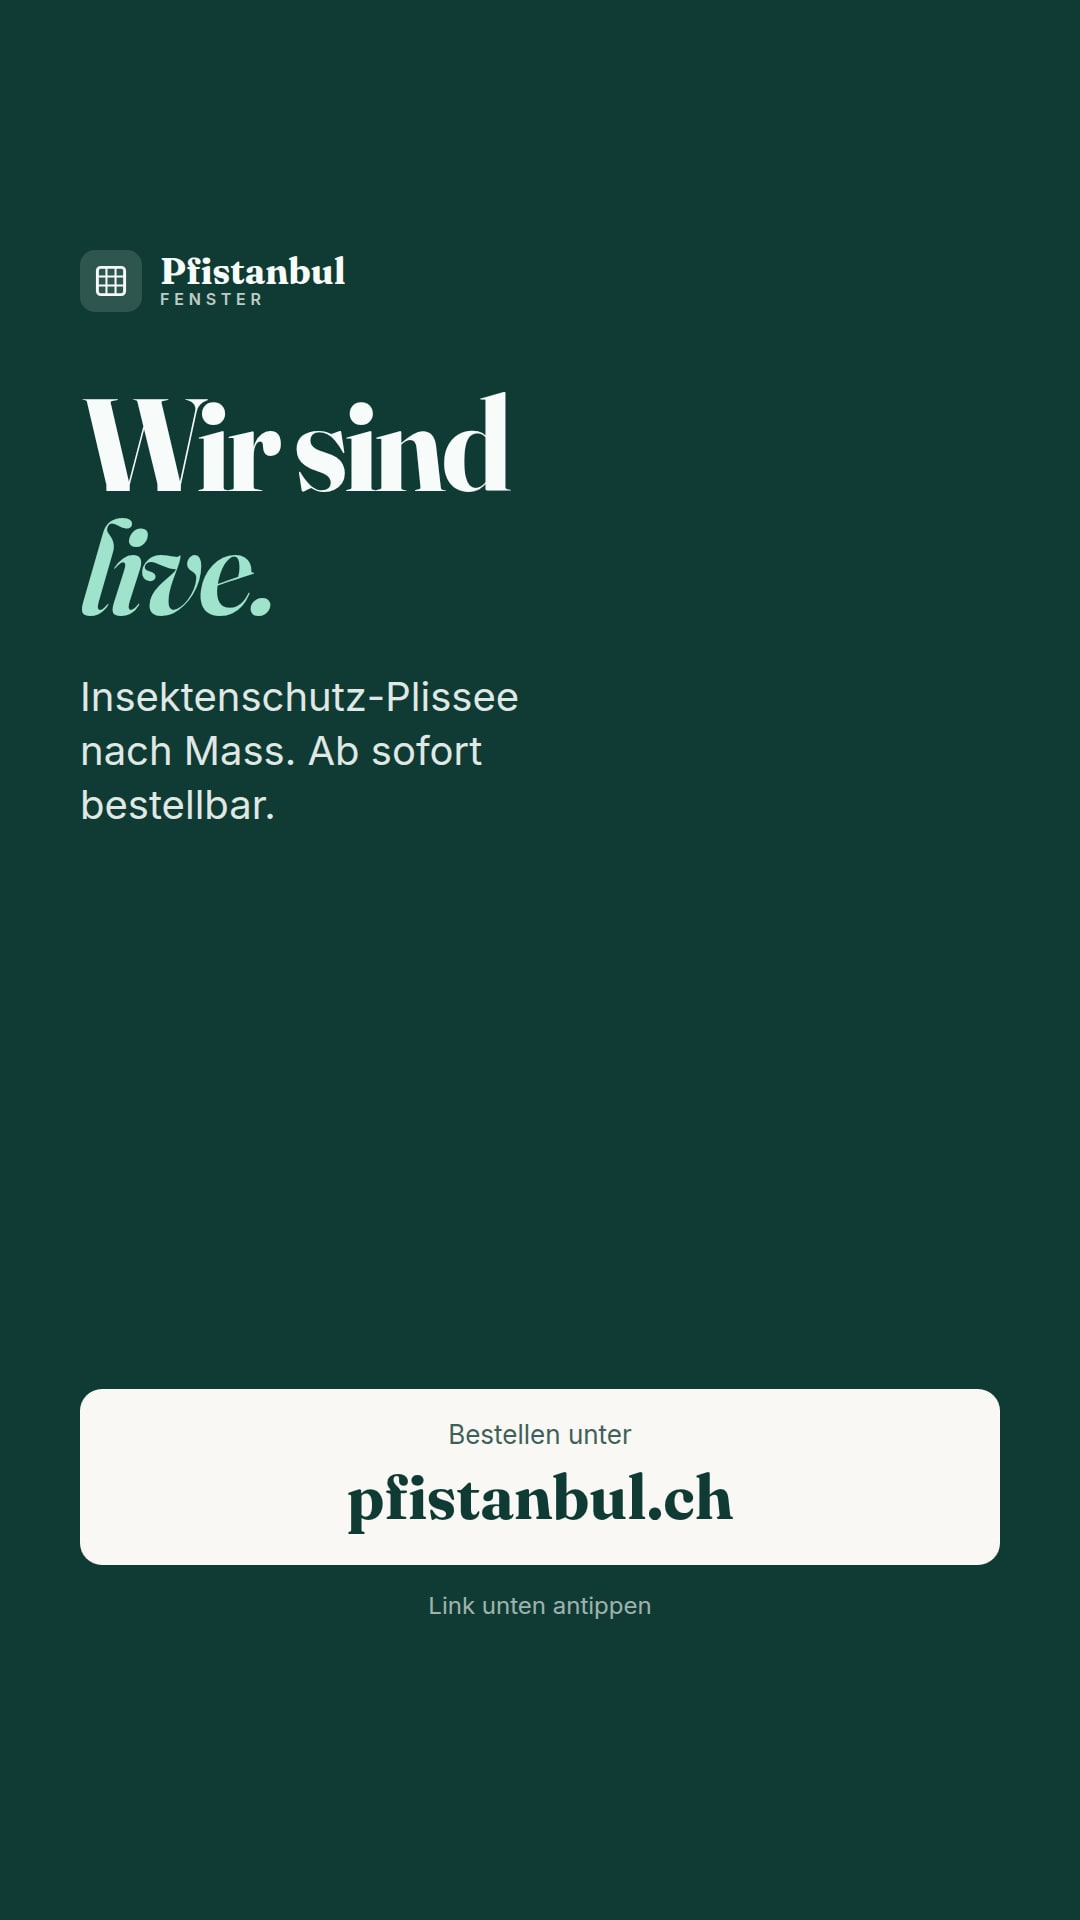
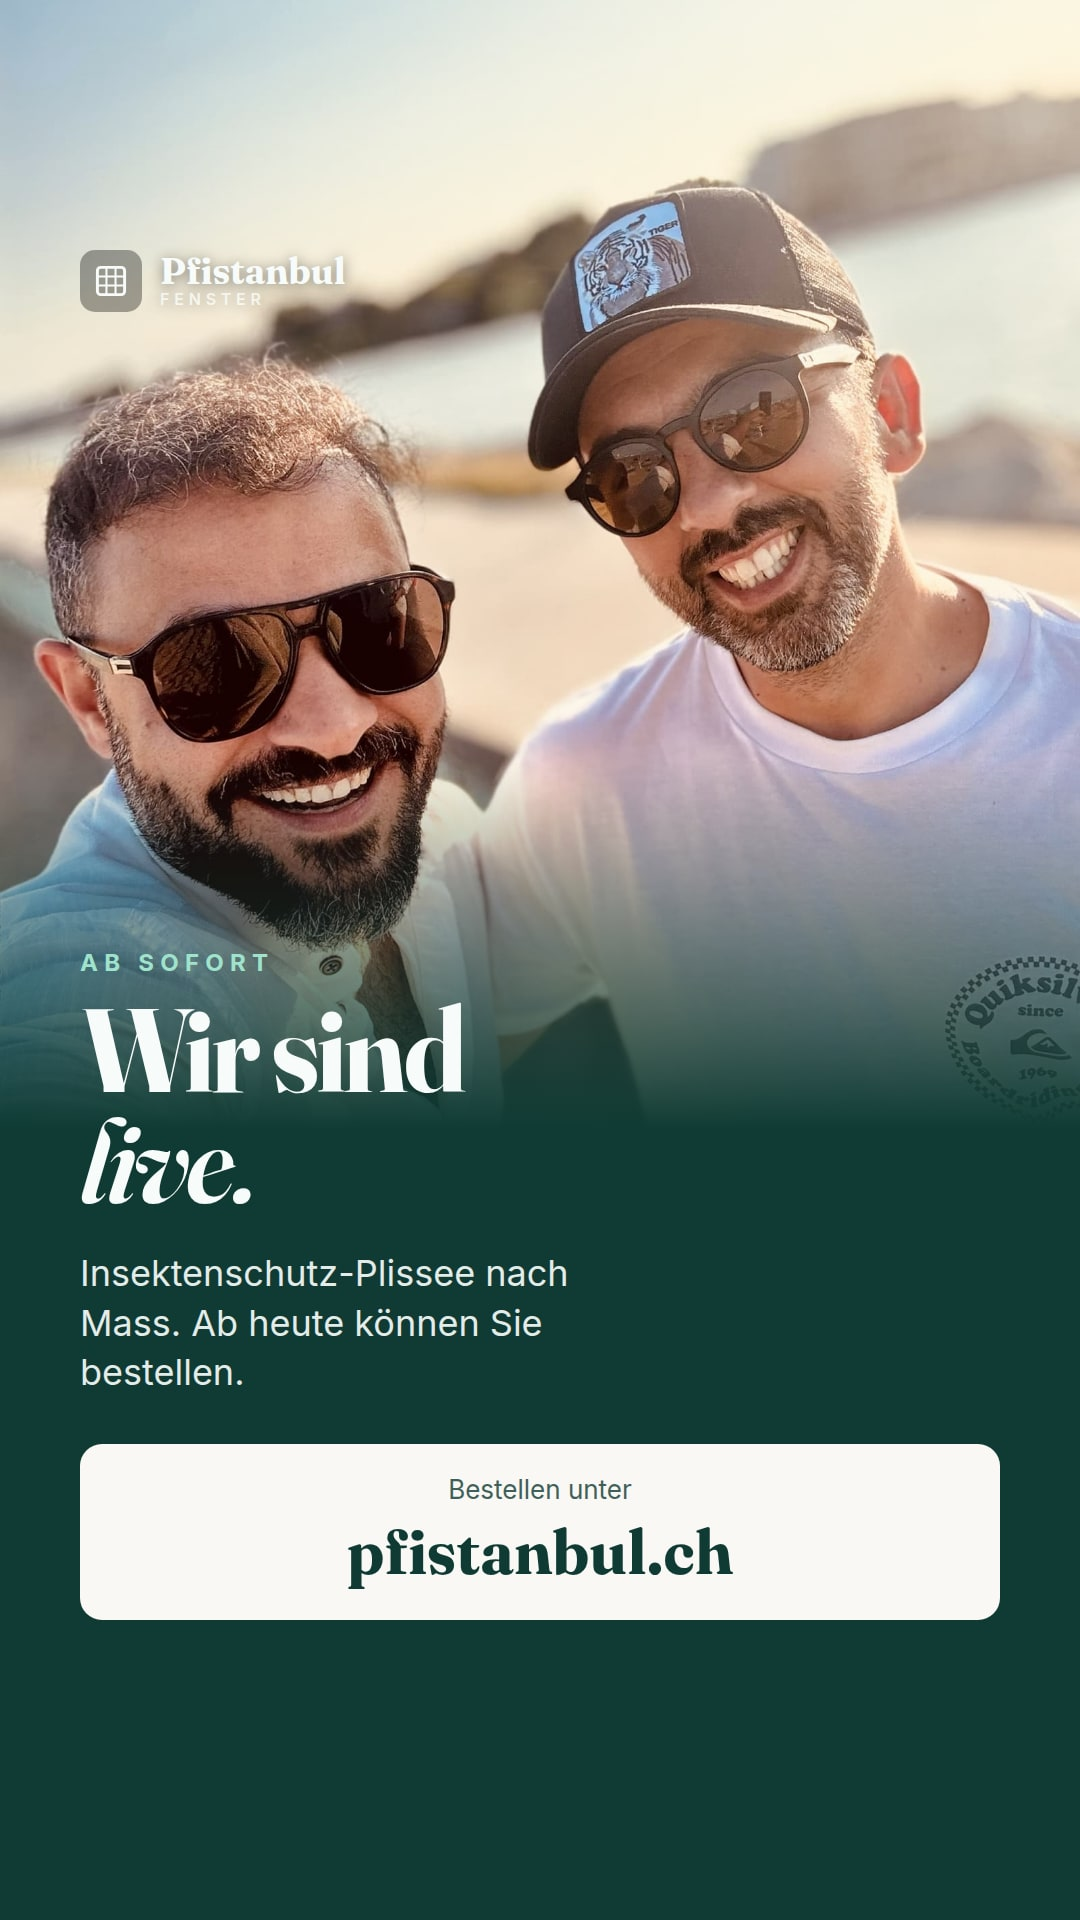
Story "Wir sind live" in der Bildsprache von "unterwegs"
Inhalt von A, Darstellung von C: Foto oben, das nach unten in den
Markengrund auslaeuft, Text im unteren Drittel.

Das Foto zeigt die beiden Gruender - bei "wir sind live" ist das "wir"
der Punkt. Die flache Fassung mit reinem Farbgrund faellt damit weg.

Claude-Session: https://claude.ai/code/session_01UiUFn7ykifp8b7M2ApYf3F

diff --git a/instagram/wir-sind-live.html b/instagram/wir-sind-live.html
@@ -1,21 +1,36 @@
 <!doctype html>
-<html lang="de"><head><meta charset="utf-8"><title>Story A – Wir sind live</title>
+<html lang="de"><head><meta charset="utf-8"><title>Story – Wir sind live</title>
 <link rel="stylesheet" href="story.css">
 <style>
-/* Vorschlag A: die Nachricht, sonst nichts.
-   Dunkler Grund, weil die Beitraege im Profil hell sind - in der Story-Leiste
-   faellt der Wechsel auf. */
-.blatt { background: #0f3b34; color: #f7fbf9; }
-.marke__zeichen { background: rgba(247,251,249,.14); color: #f7fbf9; }
-h1 { margin-top: 70px; font-size: 132px; }
-h1 em { color: #9fe3cc; }
-.satz { margin-top: 40px; font-size: 40px; line-height: 1.35; opacity: .9; max-width: 20ch; }
-.band { background: #faf8f4; color: #0f3b34; }
+/*
+ * Die Ankuendigung in der Bildsprache von "unterwegs": Foto oben, das nach
+ * unten in den Markengrund auslaeuft, Text im unteren Drittel.
+ *
+ * Das Foto zeigt die beiden - bei "wir sind live" ist das "wir" der Punkt.
+ * Die Gesichter sitzen im oberen Teil des Originals, deshalb der Bildausschnitt
+ * bei 32 Prozent; unten deckt ohnehin der Verlauf ab.
+ */
+.blatt { position: relative; padding: 0; background: #0f3b34; color: #f7fbf9; overflow: hidden; }
+.foto { position: absolute; inset: 0 0 auto 0; height: 1180px; }
+.foto img { width: 100%; height: 100%; object-fit: cover; object-position: center 32%; }
+.foto::after { content: ''; position: absolute; inset: auto 0 0 0; height: 420px;
+               background: linear-gradient(to bottom, rgba(15,59,52,0), #0f3b34 88%); }
+.inhalt { position: relative; height: 100%; padding: 250px 80px 300px; display: flex; flex-direction: column; }
+.marke__zeichen { background: rgba(0,0,0,.34); color: #f7fbf9; }
+.marke { text-shadow: 0 2px 14px rgba(0,0,0,.5); }
+.kicker { margin-top: auto; font-size: 24px; font-weight: 700; letter-spacing: 0.26em;
+          text-transform: uppercase; color: #9fe3cc; }
+h1 { margin-top: 18px; font-size: 118px; }
+.satz { margin-top: 32px; font-size: 36px; line-height: 1.38; opacity: .92; max-width: 24ch; }
+.band { margin-top: 46px; background: #faf8f4; color: #0f3b34; }
 </style></head><body><div class="blatt">
-  <div class="marke"><span class="marke__zeichen"><svg width="34" height="34" viewBox="0 0 300 300"><rect x="30" y="30" width="240" height="240" rx="30" fill="none" stroke="currentColor" stroke-width="26"/><path d="M30 110H270M30 190H270M110 30V270M190 30V270" stroke="currentColor" stroke-width="18" stroke-linecap="round"/></svg></span>
-    <span><span class="marke__name">Pfistanbul</span><br><span class="marke__zusatz">Fenster</span></span></div>
-  <h1>Wir sind<em>live.</em></h1>
-  <p class="satz">Insektenschutz-Plissee nach Mass. Ab sofort bestellbar.</p>
-  <div class="band"><span class="band__was">Bestellen unter</span><span class="band__wo">pfistanbul.ch</span></div>
-  <p class="tipp">Link unten antippen</p>
+  <figure class="foto"><img src="../public/fotos/team-1600.jpg" alt=""></figure>
+  <div class="inhalt">
+    <div class="marke"><span class="marke__zeichen"><svg width="34" height="34" viewBox="0 0 300 300"><rect x="30" y="30" width="240" height="240" rx="30" fill="none" stroke="currentColor" stroke-width="26"/><path d="M30 110H270M30 190H270M110 30V270M190 30V270" stroke="currentColor" stroke-width="18" stroke-linecap="round"/></svg></span>
+      <span><span class="marke__name">Pfistanbul</span><br><span class="marke__zusatz">Fenster</span></span></div>
+    <p class="kicker">Ab sofort</p>
+    <h1>Wir sind<em>live.</em></h1>
+    <p class="satz">Insektenschutz-Plissee nach Mass. Ab heute können Sie bestellen.</p>
+    <div class="band"><span class="band__was">Bestellen unter</span><span class="band__wo">pfistanbul.ch</span></div>
+  </div>
 </div></body></html>

diff --git a/instagram/LIESMICH.md b/instagram/LIESMICH.md
@@ -210,8 +210,16 @@ Antwortfeld, Linkaufkleber. Alles Wichtige liegt deshalb in den mittleren rund
 Fläche in der Mitte ist Absicht: Dort gehören Aufkleber hin.
 
 ### `story-wir-sind-live.jpg`
-Die Ankündigung, sonst nichts. Dunkler Grund, weil die Beiträge im Profil hell
-sind – in der Story-Leiste fällt der Wechsel auf.
+Die Ankündigung in der Bildsprache von `unterwegs`: Foto oben, das nach unten
+in den Markengrund ausläuft, Text im unteren Drittel.
+
+Das Foto zeigt die beiden – bei „wir sind live" ist das „wir" der Punkt. Die
+Gesichter sitzen im oberen Teil des Originals, deshalb der Bildausschnitt bei
+32 Prozent; unten deckt ohnehin der Verlauf ab.
+
+Wer lieber das Produkt zeigt: im HTML `team-1600.jpg` durch
+`fenster-geschlossen-1600.jpg` ersetzen und den Ausschnitt auf 46 Prozent
+setzen.
 
 ### `story-erster-tag.jpg`
 Der soziale Beweis. **Wirkt nur, solange er stimmt**: keine erfundenen Zahlen,
